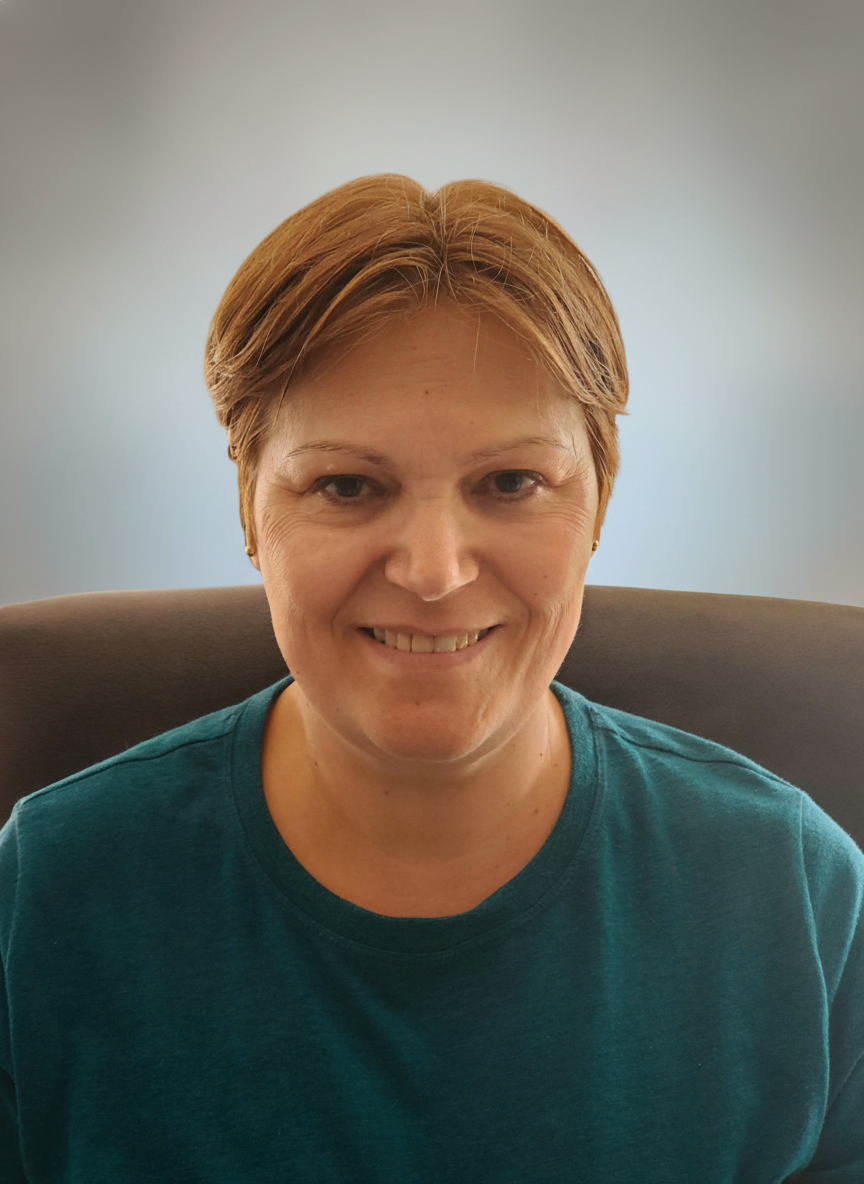
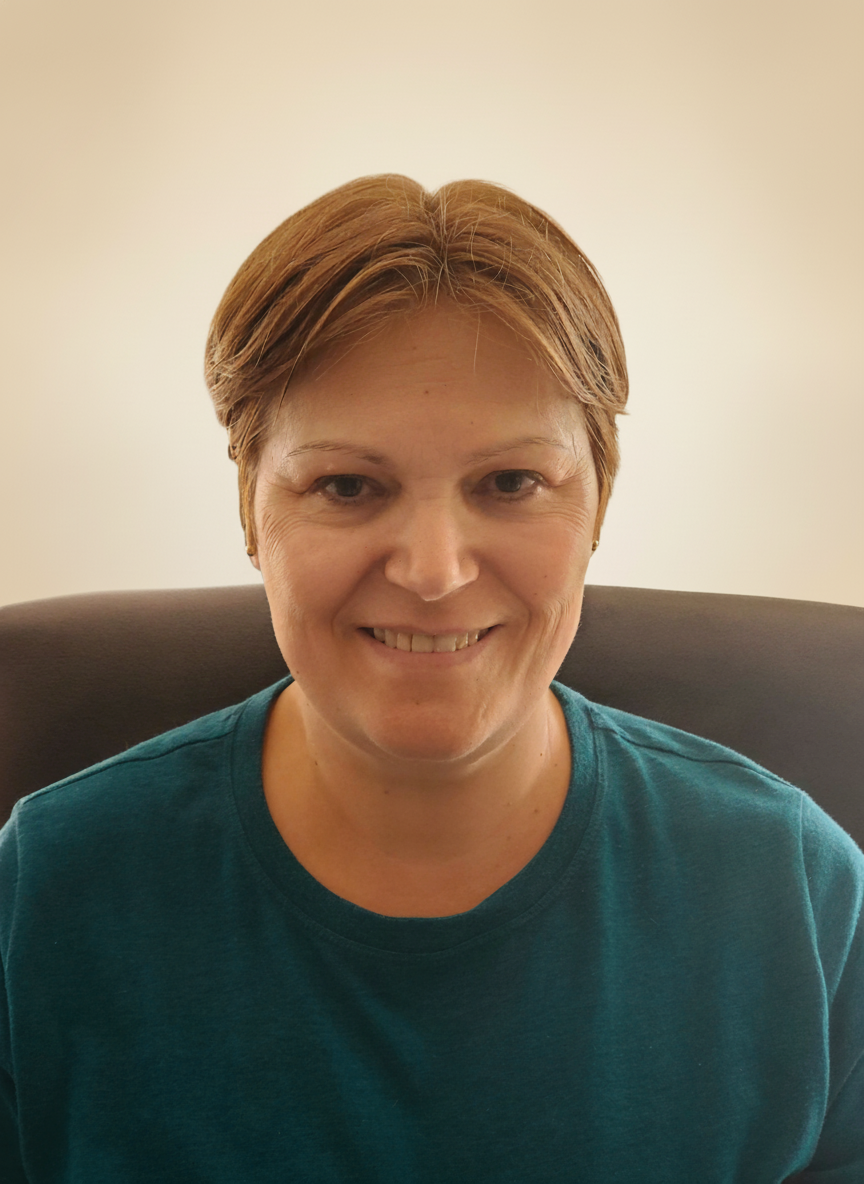
Move hero headshot to right column and enhance photo

diff --git a/src/app/about-us/page.tsx b/src/app/about-us/page.tsx
@@ -13,22 +13,24 @@ export default function AboutPage() {
     <>
       {/* Hero — asymmetric, left-aligned */}
       <section className="bg-surface pt-40 pb-24">
-        <div className="max-w-screen-2xl mx-auto px-8">
-          <span className="label-upper text-on-surface-variant/60 block mb-8 animate-fade-up tracking-widest">
-            Our Story
-          </span>
-          <h1 className="animate-fade-up-1 font-serif fluid-display text-primary font-normal max-w-3xl">
-            Meet <em className="text-gold font-normal">Denise</em>
-          </h1>
-          <p className="animate-fade-up-2 text-on-surface-variant text-lg leading-relaxed mt-10 max-w-xl">
-            She joined PHS over 30 years ago. Learned every corner of the
-            business. Then took it over. Today, she still personally oversees
-            every client relationship.
-          </p>
-        </div>
-        <div className="max-w-screen-2xl mx-auto px-8 mt-16 animate-fade-up-3">
-          <div className="relative w-full max-w-md aspect-[3/4]">
-            <Image src="/images/denise-secondary.png" alt="Denise, owner of Portuguese Housekeeping Services" fill className="object-cover" priority />
+        <div className="max-w-screen-2xl mx-auto px-8 grid grid-cols-1 lg:grid-cols-12 gap-16 items-center">
+          <div className="lg:col-span-7">
+            <span className="label-upper text-on-surface-variant/60 block mb-8 animate-fade-up tracking-widest">
+              Our Story
+            </span>
+            <h1 className="animate-fade-up-1 font-serif fluid-display text-primary font-normal">
+              Meet <em className="text-gold font-normal">Denise</em>
+            </h1>
+            <p className="animate-fade-up-2 text-on-surface-variant text-lg leading-relaxed mt-10 max-w-xl">
+              She joined PHS over 30 years ago. Learned every corner of the
+              business. Then took it over. Today, she still personally oversees
+              every client relationship.
+            </p>
+          </div>
+          <div className="lg:col-span-4 lg:col-start-9 animate-fade-up-3">
+            <div className="relative w-full aspect-[3/4]">
+              <Image src="/images/denise-secondary.png" alt="Denise, owner of Portuguese Housekeeping Services" fill className="object-cover" priority />
+            </div>
           </div>
         </div>
       </section>
